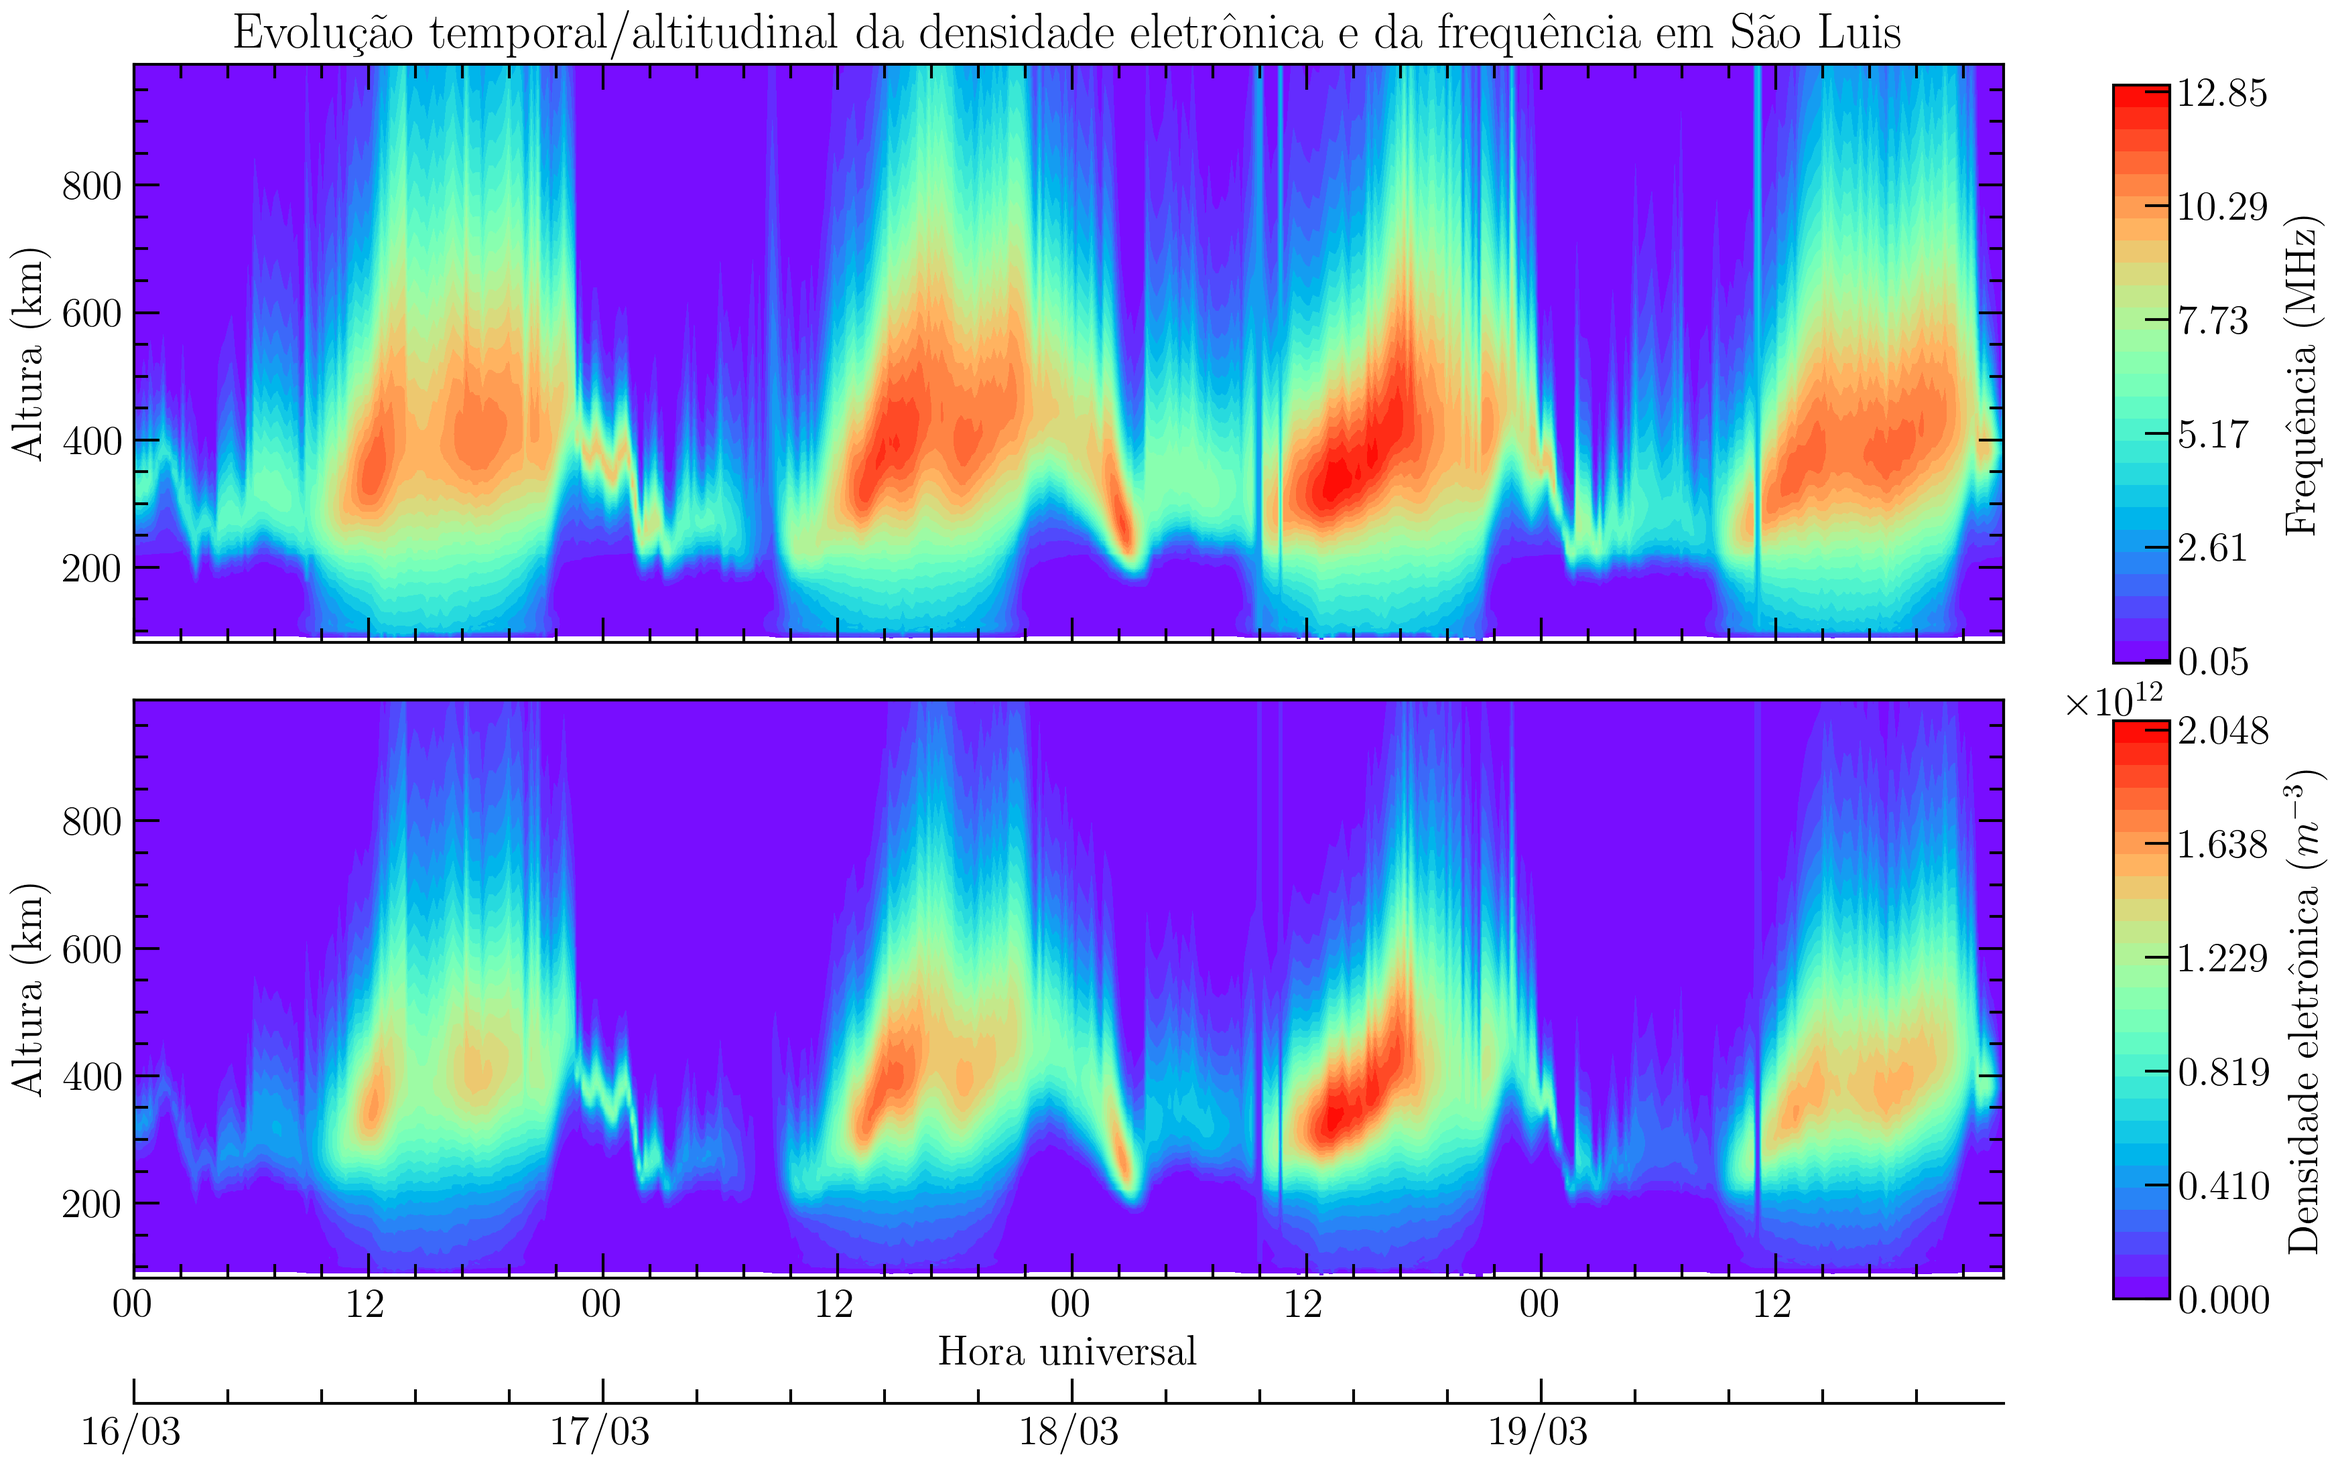
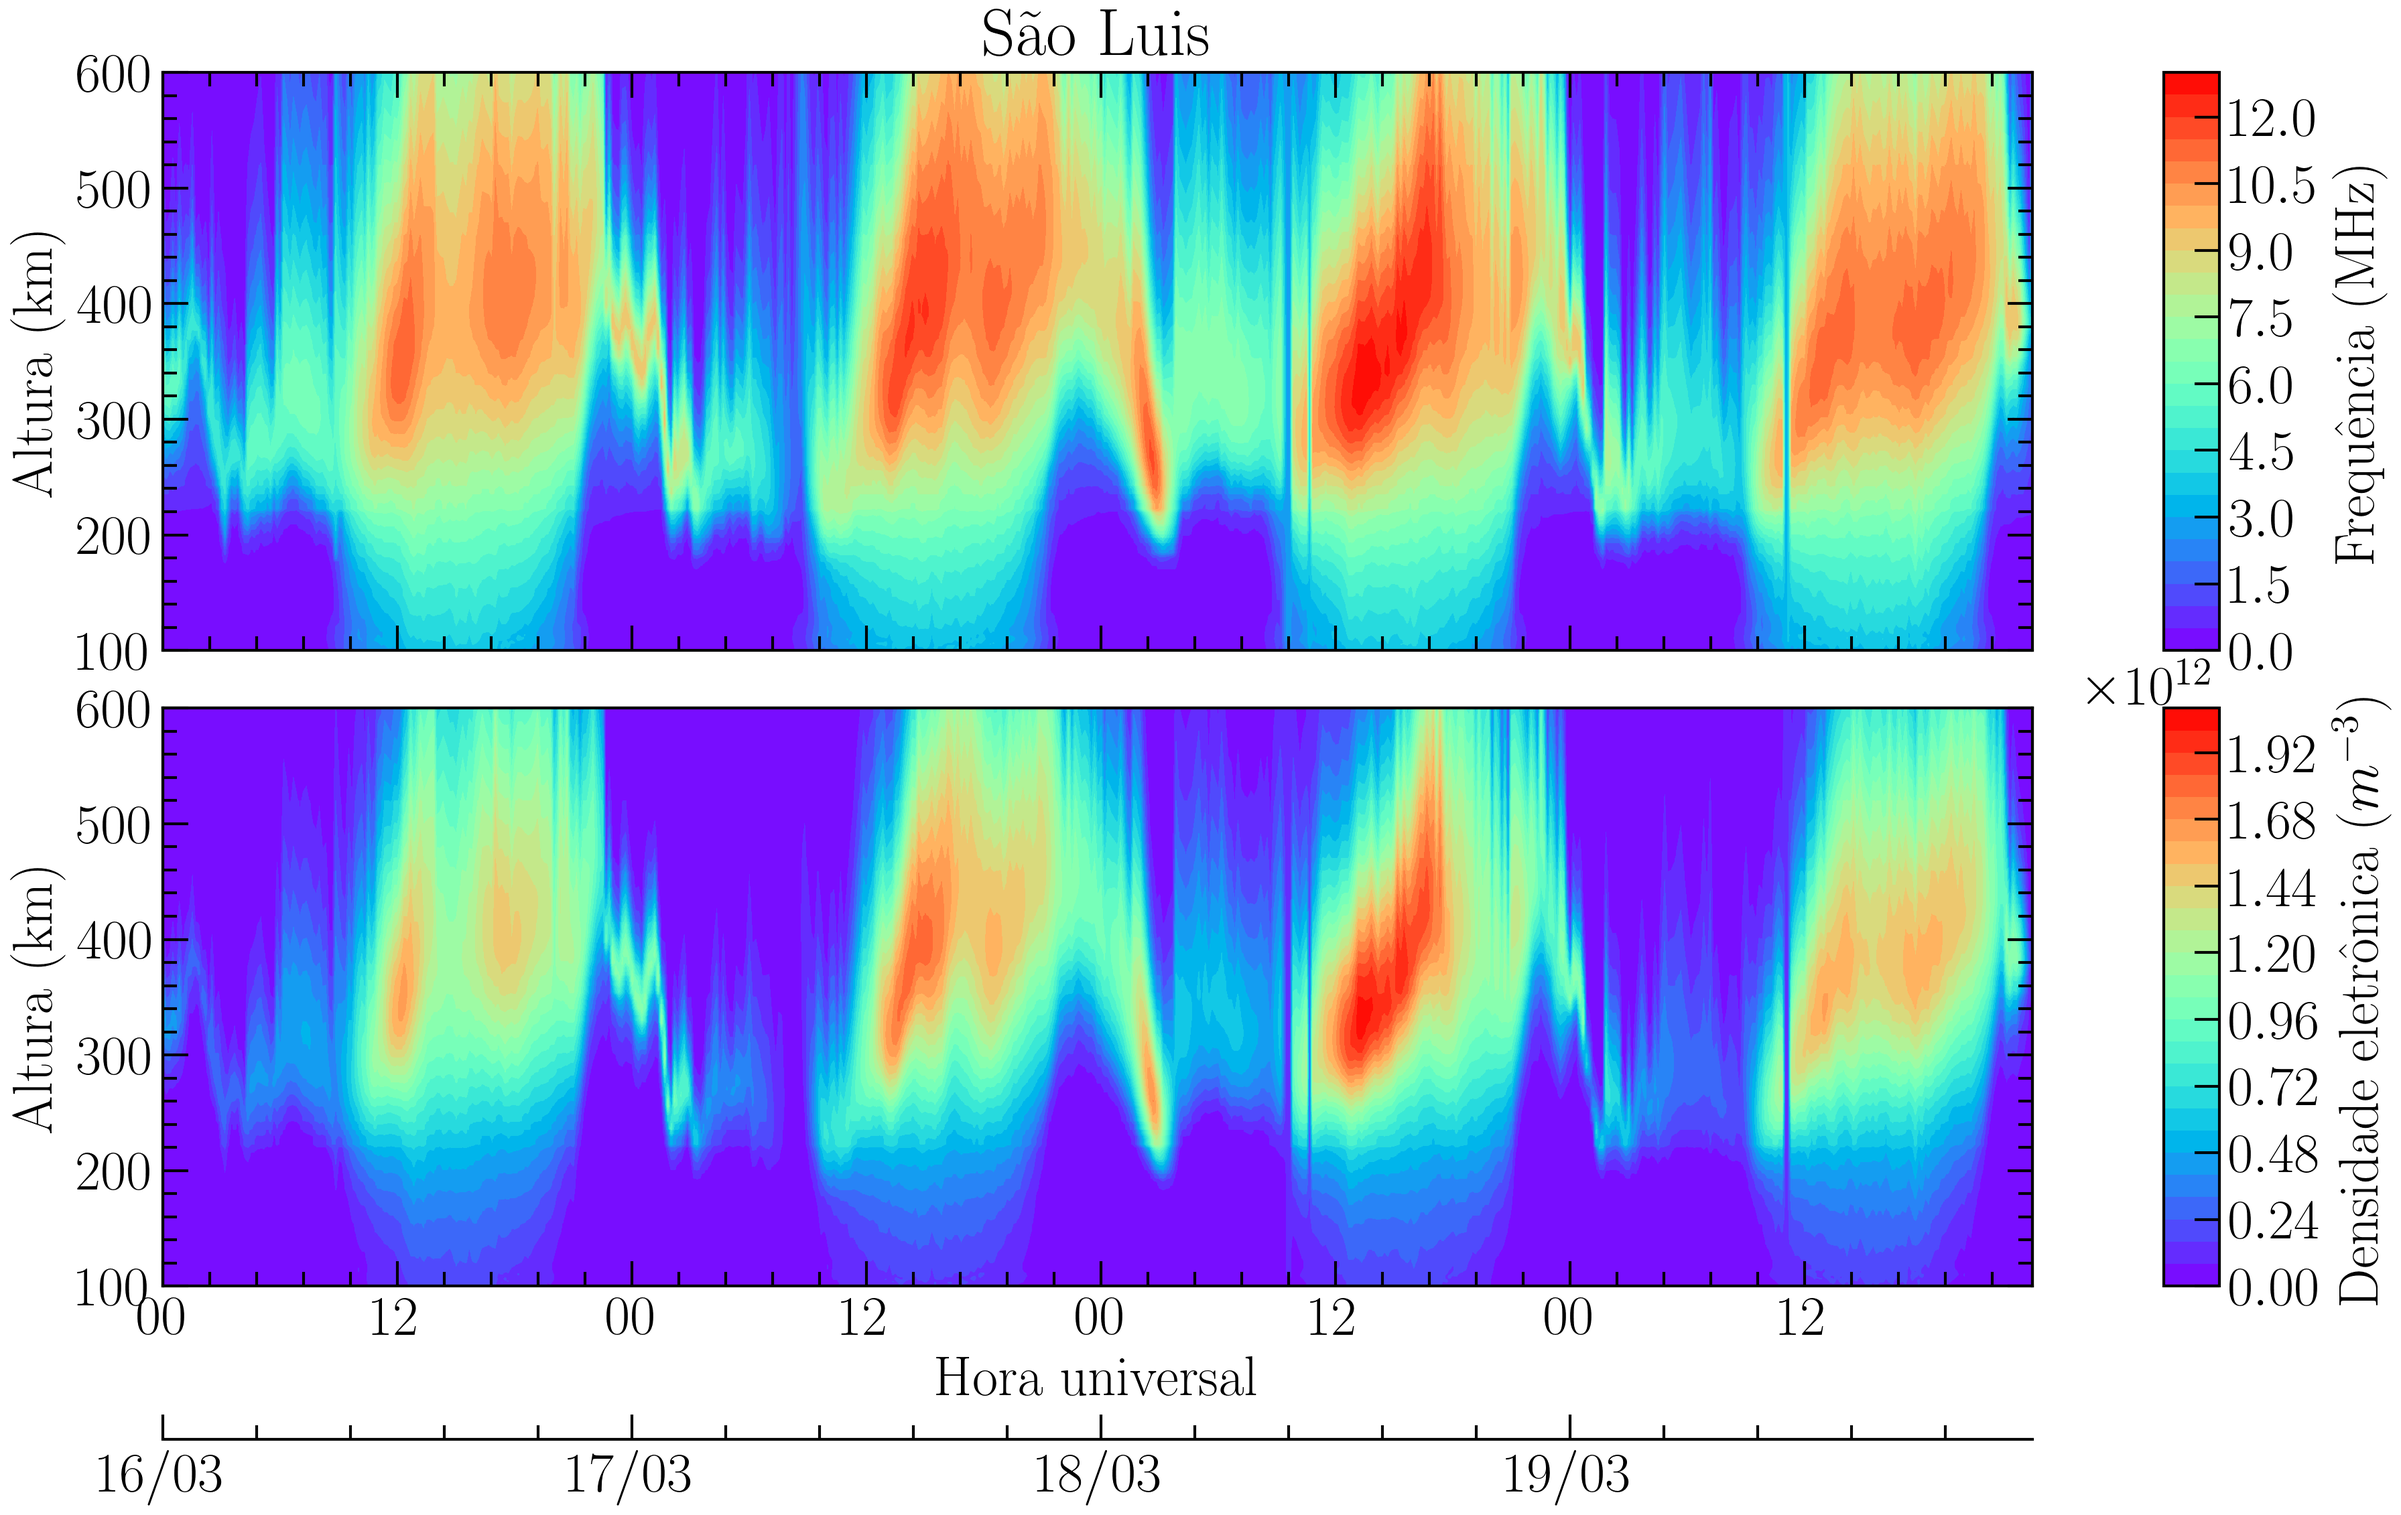
updates

diff --git a/src/plotting/plot_profilogram.py b/src/plotting/plot_profilogram.py
@@ -14,7 +14,10 @@ def plot_frequency(
         columns = df.index
         ).interpolate()
     
-    img = ax.contourf(ds.columns, ds.index, ds.values, 
+    img = ax.contourf(
+        ds.columns, 
+        ds.index, 
+        ds.values, 
                  30, cmap = "rainbow")
     
     ticks = np.linspace(np.nanmin(ds.values), 
@@ -23,15 +26,14 @@ def plot_frequency(
             img, ax, ticks, 
             label = 'Frequência (MHz)')
     
-    ax.set(ylabel = "Altura (km)")
-    
+    ax.set(ylabel = "Altura (km)", 
+           ylim = [100, 600])
+    return ax
     
 def plot_electron_density(
         ax, df
         ):
     
-    df["ne"] = (1.24e4 * df["freq"]**2) * 1e6
-
     ds = pd.pivot_table(
         df, 
         index = "alt", 
@@ -39,25 +41,35 @@ def plot_electron_density(
         columns = df.index
         ).interpolate()
     
-    img = ax.contourf(ds.columns, ds.index, ds.values, 
-                 30, cmap = "Blues")
+    
+    img = ax.contourf(
+        ds.columns, 
+        ds.index, 
+        ds.values, 
+        30, cmap = "rainbow")
     
     ticks = np.linspace(np.nanmin(ds.values), 
                         np.nanmax(ds.values), 6)
     s.colorbar_setting(
             img, ax, ticks, 
-            label = 'Densidade eletrônica ($m^{-3}$)')
+            label = 'Densidade eletrônica ($m^{-3}$)'
+            )
     
-    ax.set(ylabel = "Altura (km)")
+    ax.set(ylabel = "Altura (km)", 
+           ylim = [100, 600])
+    
+    return ax
 
-
-infile = "database/Digisonde/SAA0K_20130316(075).TXT"
-df = pd.read_csv(infile, index_col = 0)
-df.index = pd.to_datetime(df.index)
-times = df.index.unique()
+def load():
+    infile = "database/Digisonde/SAA0K_20130316(075).TXT"
+    df = pd.read_csv(infile, index_col = 0)
+    df.index = pd.to_datetime(df.index)
+    df["ne"] = (1.24e4 * df["freq"]**2) * 1e6
+    return df
 
 
 def plot_profilogram(df):
+    
     fig, ax = plt.subplots(
             dpi = 300,
             sharex = True,
@@ -69,21 +81,21 @@ def plot_profilogram(df):
     
     plt.subplots_adjust(hspace = 0.1)
     
-    s.config_labels()
+    s.config_labels(fontsize = 20)
     
     plot_frequency(ax[0], df)
     plot_electron_density(ax[1], df)
     s.format_time_axes(
-            ax[1], hour_locator = 12, 
+            ax[1], 
+            hour_locator = 12, 
             day_locator = 1, 
-            tz = "UTC"
+            tz = "UTC",
+            pad = 55
     )
     
-    ax[0].set(title = "Evolução temporal/altitudinal da densidade eletrônica e da frequência em São Luis")
+    ax[0].set(title = "São Luis")
     
     return fig
     
-fig = plot_profilogram(df)
-
-
-fig.savefig("digisonde/src/figures/profilogram_saa.png", dpi =300)
+fig = plot_profilogram(load())
+fig.savefig("digisonde/src/figures/profilogram_saa.png", dpi = 300)

diff --git a/src/characteristics.py b/src/characteristics.py
@@ -26,12 +26,13 @@ def pro_characteristics(infile):
     for col in df.columns:
         df[col] = pd.to_numeric(df[col])
     
-    return df.interpolate()
+    return df#.interpolate()
 
 def main():
-    infile = "database/Digisonde/SAA0K_20130316(075)_cha"
+    infile = "database/Digisonde/SAA0K_20130316(075)_cha_raw"
     
     df = pro_characteristics(infile)
-    
+    df.to_csv(infile)
   
 
+# main()

diff --git a/src/plotting/plot_vz_and_frequencies.py b/src/plotting/plot_vz_and_frequencies.py
@@ -76,7 +76,7 @@ def plot_vz_and_frequencies():
     return fig
 
 
-fig = plot_vz_and_frequencies()
+#fig = plot_vz_and_frequencies()
 
 
 
